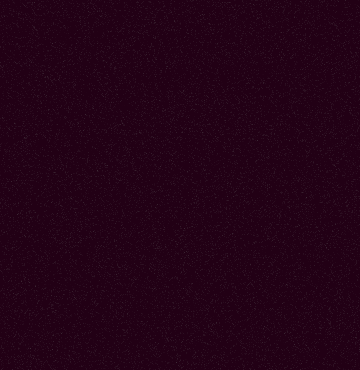
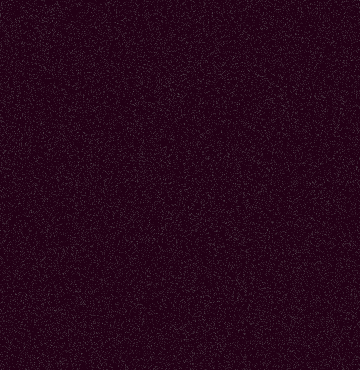
hipergalactic background

diff --git a/src/styles/global.css b/src/styles/global.css
@@ -3,3 +3,18 @@
 	--fg-color-1: #ff00aa;
 	--fg-color-2: #ffdd00;
 }
+
+.background {
+	z-index: -1;
+	position: fixed;
+	top: 0;
+	left: 0;
+	width: 100%;
+	height: 100%;
+	background-color: var(--bg-color-1);
+	background-image:
+			linear-gradient(to top right, rgba(38, 0, 255, 0.2) 0%, transparent 70%),
+			url('/background.png');
+	background-repeat: repeat;
+}
+

diff --git a/src/components/FullScreenImage.module.css b/src/components/FullScreenImage.module.css
@@ -7,11 +7,10 @@
 	display: flex;
 	flex-direction: row;
 	align-items: center;
-	background-color: var(--bg-color-1);
 }
 
 .image {
-	filter: invert(1) contrast(1) brightness(0.4) blur(2px);/*  hide Marina */
+	/* filter: invert(1) contrast(1) brightness(0.4) blur(2px); hide Marina */
 	width: 100%;
 	height: 100%;
 	object-fit: contain;

diff --git a/src/components/Galeria.module.css b/src/components/Galeria.module.css
@@ -20,7 +20,7 @@
 }
 
 .image {
-	filter: invert(1) contrast(1) brightness(0.4) blur(2px);/*  hide Marina */
+	/* filter: invert(1) contrast(1) brightness(0.4) blur(2px); hide Marina */
 	max-width: 170px;
 	max-height: 110px;
 	border: var(--fg-color-2) 1px solid;

diff --git a/src/components/FullScreenImage.tsx b/src/components/FullScreenImage.tsx
@@ -47,6 +47,7 @@ export default function FullScreenImage ({ imageFullScreen, thumbnailUrlBase, ha
 
 	return (
 		<div class={styles.container}>
+			<div class='background' />
 			<img
 				src={imgSrc}
 				class={styles.image}
